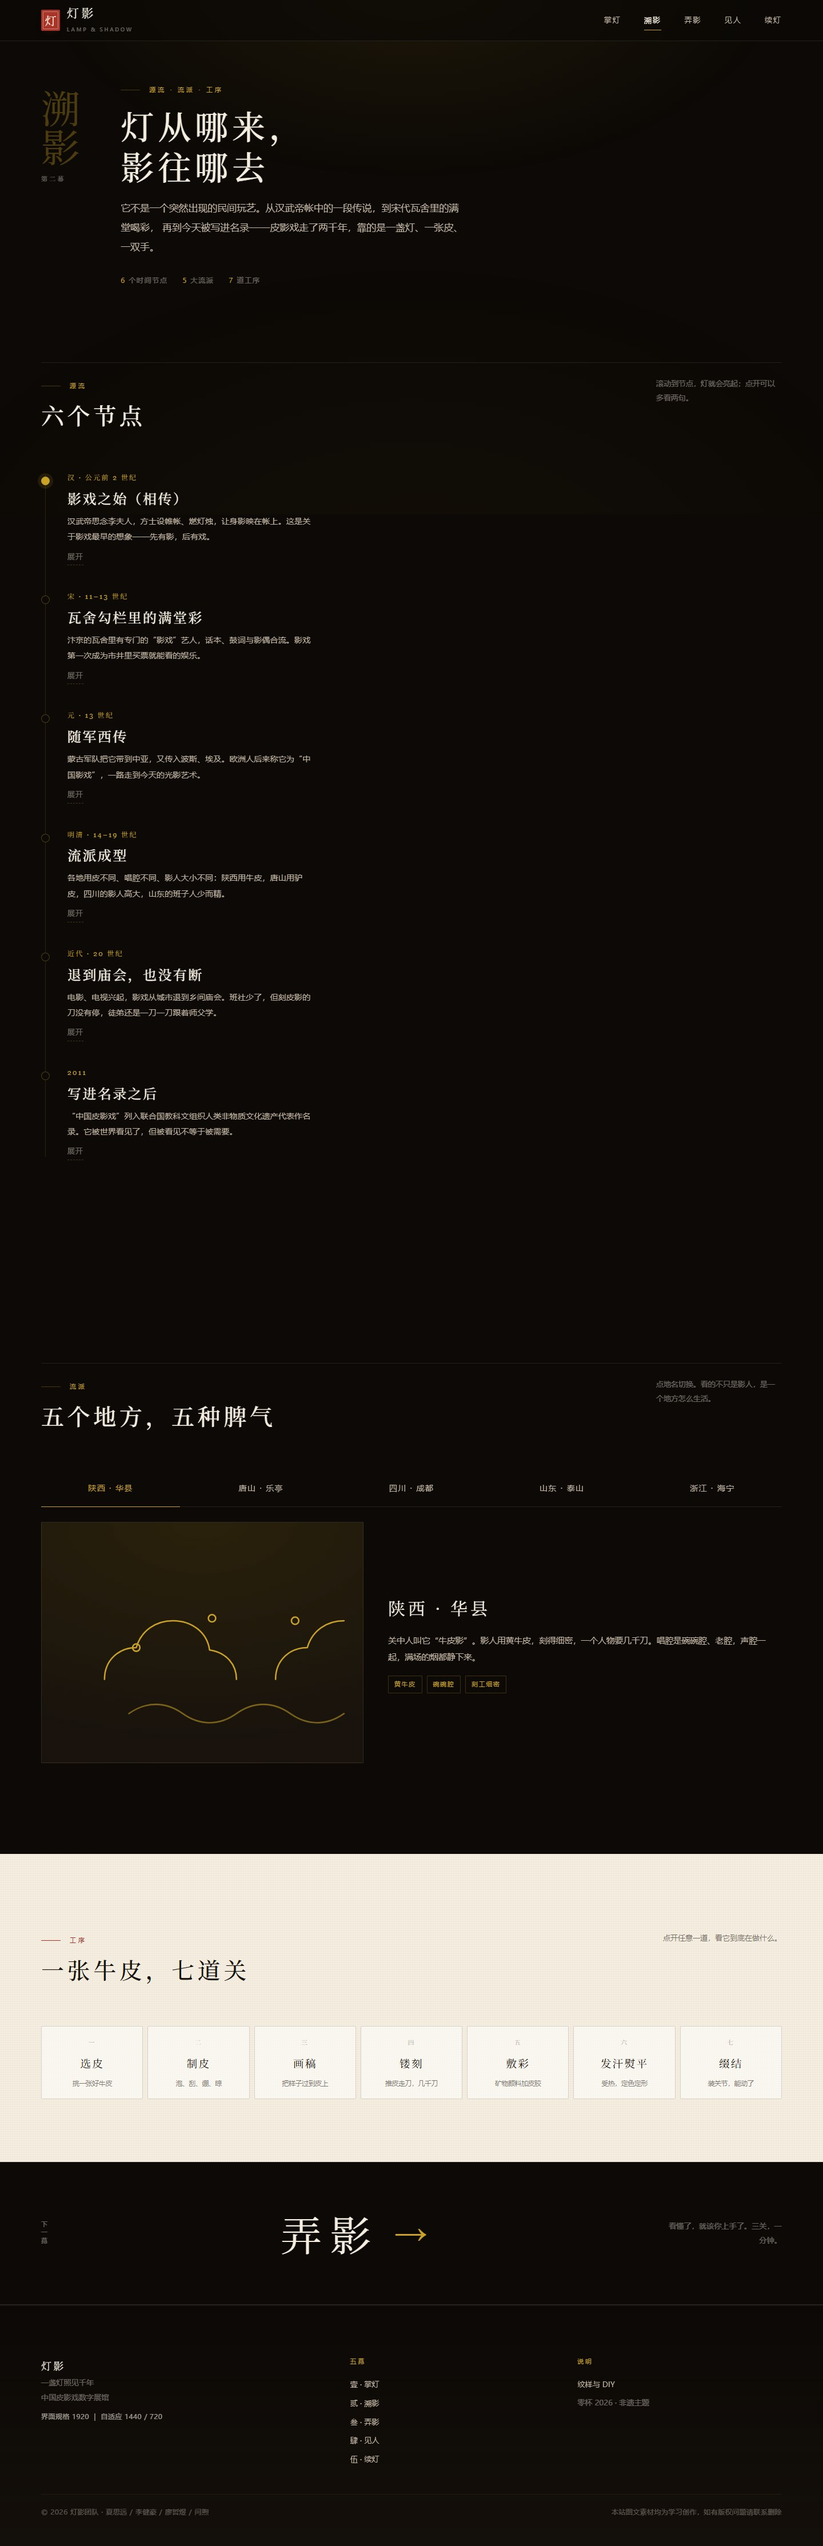
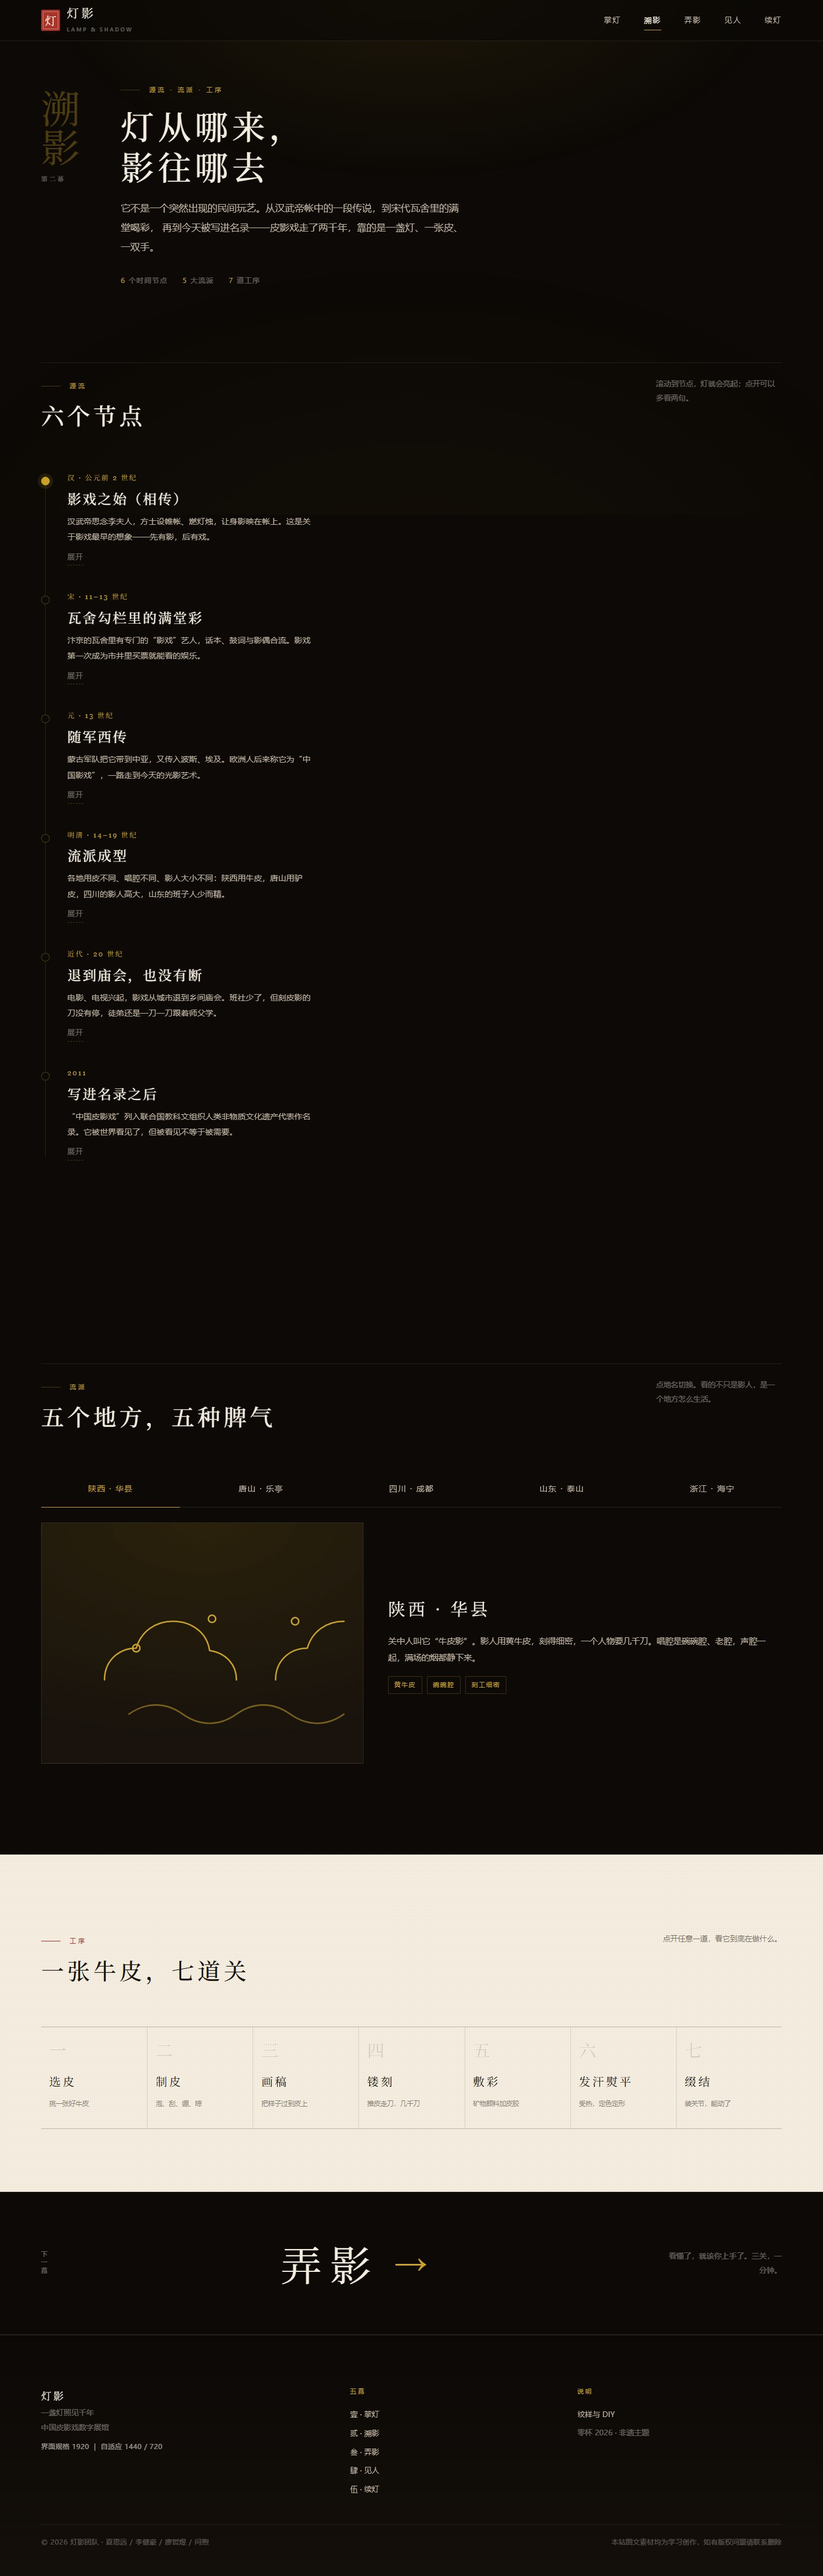
style: 组件层重构——工序表、工具墙、传承人卡
- 七道工序：7 张白卡改为刻本式表格，竖线分隔 + 大号汉字序号 + 悬停朱色
- 工具墙：卡框改为顶部发丝线 + 左对齐实物陈列，说明文字常显（不再藏到 hover）
- 传承人卡：圆形头像改档案照式方形证件框，加右下角标；姓名放大至 30px
- 回归：30 组审计 0 报错 0 溢出

diff --git a/web/assets/css/components.css b/web/assets/css/components.css
@@ -245,23 +245,59 @@
 }
 
 /* ---------- 工序 ---------- */
-.crafts { display: grid; grid-template-columns: repeat(7, minmax(0, 1fr)); gap: 8px; }
+/* ---------- 七道工序：刻本式表格，靠竖线分隔而不是卡片 ---------- */
+.crafts {
+  display: grid;
+  grid-template-columns: repeat(7, minmax(0, 1fr));
+  gap: 0;
+  border-top: 1px solid rgba(26, 20, 14, .26);
+  border-bottom: 1px solid rgba(26, 20, 14, .26);
+}
 .craft {
   position: relative;
-  padding: 18px 10px 16px;
-  border: 1px solid rgba(26, 20, 14, .16);
-  background: rgba(255, 255, 255, .5);
-  border-radius: 2px;
-  text-align: center;
-  transition: transform .3s var(--ease), background .3s var(--ease), box-shadow .3s var(--ease);
+  padding: 24px 14px 32px;
+  border: 0;
+  border-left: 1px solid rgba(26, 20, 14, .13);
+  border-radius: 0;
+  background: none;
+  text-align: left;
+  transition: background var(--t-base) var(--ease);
 }
-.craft:hover { transform: translateY(-4px); background: #FFFDF7; box-shadow: 0 18px 34px -22px rgba(26, 20, 14, .55); }
-.craft__idx { display: block; font-family: var(--num); font-size: 11px; letter-spacing: .2em; color: rgba(26, 20, 14, .45); }
-.craft__name { display: block; font-family: var(--serif); font-size: clamp(16px, 1.3vw, 19px); letter-spacing: .12em; margin-top: 8px; color: var(--curtain); }
-.craft__line { display: block; font-size: 11.5px; line-height: 1.7; color: rgba(26, 20, 14, .58); margin-top: 8px; }
+.craft:first-child { border-left: 0; }
+.craft:hover { background: rgba(26, 20, 14, .05); }
+.craft__idx {
+  display: block;
+  font-family: var(--serif);
+  font-size: 30px;
+  line-height: 1;
+  letter-spacing: 0;
+  color: rgba(26, 20, 14, .16);
+  transition: color var(--t-base) var(--ease);
+}
+.craft:hover .craft__idx { color: rgba(168, 52, 42, .55); }
+.craft__name {
+  display: block;
+  font-family: var(--serif);
+  font-size: clamp(17px, 1.4vw, 21px);
+  letter-spacing: .18em;
+  margin-top: 22px;
+  color: var(--curtain);
+}
+.craft__line { display: block; font-size: 11.5px; line-height: 1.8; color: rgba(26, 20, 14, .55); margin-top: 10px; }
 .craft:focus-visible { outline-color: var(--cinnabar); }
-@media (max-width: 1100px) { .crafts { grid-template-columns: repeat(4, minmax(0, 1fr)); } }
-@media (max-width: 640px) { .crafts { grid-template-columns: repeat(2, minmax(0, 1fr)); } }
+@media (max-width: 1100px) {
+  .crafts { grid-template-columns: repeat(4, minmax(0, 1fr)); }
+  .craft:nth-child(4n+1) { border-left: 0; }
+  .craft { border-top: 1px solid rgba(26, 20, 14, .13); }
+  .craft:nth-child(-n+4) { border-top: 0; }
+}
+@media (max-width: 640px) {
+  .crafts { grid-template-columns: repeat(2, minmax(0, 1fr)); }
+  .craft:nth-child(4n+1) { border-left: 1px solid rgba(26, 20, 14, .13); }
+  .craft:nth-child(2n+1) { border-left: 0; }
+  .craft:nth-child(-n+4) { border-top: 1px solid rgba(26, 20, 14, .13); }
+  .craft:nth-child(-n+2) { border-top: 0; }
+}
 
 /* ---------- 弄影台 ---------- */
 .stage-wrap { position: relative; }
@@ -595,8 +631,8 @@
   inset: 0;
   border: 1px solid var(--hair);
   border-radius: var(--r-sm);
-  padding: clamp(22px, 2.6vw, 34px);
-  background: linear-gradient(180deg, rgba(26, 20, 14, .9), rgba(12, 9, 6, .94));
+  padding: clamp(26px, 3vw, 40px);
+  background: linear-gradient(165deg, rgba(26, 20, 14, .92), rgba(12, 9, 6, .96));
   backface-visibility: hidden;
   -webkit-backface-visibility: hidden;
   display: flex;
@@ -608,17 +644,28 @@
   background: linear-gradient(180deg, rgba(46, 107, 79, .16), rgba(12, 9, 6, .96));
 }
 .master__portrait {
-  width: 96px;
-  height: 96px;
-  border-radius: 50%;
+  width: 84px;
+  height: 84px;
+  border-radius: var(--r-sm);
   border: 1px solid var(--line-strong);
   display: grid;
   place-items: center;
-  margin-bottom: 20px;
-  background: radial-gradient(circle at 50% 35%, rgba(201, 162, 39, .22), rgba(12, 9, 6, .9));
+  margin-bottom: 26px;
+  background: rgba(201, 162, 39, .04);
   flex: none;
+  position: relative;
 }
-.master__name { display: block; font-family: var(--serif); font-size: clamp(22px, 2vw, 28px); letter-spacing: .14em; }
+.master__portrait::after {
+  content: "";
+  position: absolute;
+  right: -1px;
+  bottom: -1px;
+  width: 10px;
+  height: 10px;
+  border-right: 1px solid var(--lamp);
+  border-bottom: 1px solid var(--lamp);
+}
+.master__name { display: block; font-family: var(--serif); font-size: clamp(24px, 2.2vw, 30px); letter-spacing: .18em; }
 .master__role { display: block; font-size: 12px; letter-spacing: .16em; color: var(--lamp); margin-top: 6px; }
 .master__text { display: block; font-size: 13.5px; line-height: 1.95; color: var(--paper-dim); margin-top: 16px; }
 .master__hint { display: block; margin-top: auto; padding-top: 18px; font-size: 11px; letter-spacing: .16em; color: var(--paper-faint); }
@@ -626,31 +673,50 @@
 .master__sign { display: block; margin-top: 22px; font-size: 12px; color: var(--paper-faint); letter-spacing: .14em; }
 
 /* ---------- 工具墙 ---------- */
-.tools { display: grid; grid-template-columns: repeat(5, minmax(0, 1fr)); gap: 10px; }
+/* ---------- 工具墙：五件器物，靠顶部细线站成一排 ---------- */
+.tools {
+  display: grid;
+  grid-template-columns: repeat(5, minmax(0, 1fr));
+  gap: 0 clamp(16px, 2.4vw, 34px);
+  border-top: 1px solid var(--hair-strong);
+}
 @media (max-width: 1000px) { .tools { grid-template-columns: repeat(3, minmax(0, 1fr)); } }
 @media (max-width: 600px) { .tools { grid-template-columns: repeat(2, minmax(0, 1fr)); } }
 .tool {
   position: relative;
-  padding: 18px 14px 16px;
-  border: 1px solid var(--hair);
-  border-radius: 2px;
-  background: rgba(26, 20, 14, .45);
-  text-align: center;
-  transition: transform .3s var(--ease), border-color .3s var(--ease);
+  padding: 26px 0 28px;
+  border: 0;
+  border-radius: 0;
+  background: none;
+  text-align: left;
+  transition: color var(--t-base) var(--ease);
 }
-.tool:hover, .tool.is-open { transform: translateY(-4px); border-color: var(--line-strong); }
-.tool__icon { height: 54px; display: grid; place-items: center; color: var(--lamp); }
-.tool__name { font-family: var(--serif); font-size: 16px; letter-spacing: .12em; margin-top: 12px; }
+.tool::before {
+  content: "";
+  position: absolute;
+  top: -1px;
+  left: 0;
+  right: 0;
+  height: 1px;
+  background: var(--lamp);
+  transform: scaleX(0);
+  transform-origin: left;
+  transition: transform var(--t-slow) var(--ease);
+}
+.tool:hover::before, .tool.is-open::before, .tool:focus-visible::before { transform: scaleX(1); }
+.tool__icon { height: 46px; display: flex; align-items: center; color: var(--lamp); }
+.tool__name { font-family: var(--serif); font-size: 16px; letter-spacing: .18em; margin-top: 18px; }
 .tool__note {
   font-size: 11.5px;
-  line-height: 1.7;
-  color: var(--paper-faint);
-  margin-top: 8px;
-  opacity: 0;
-  transform: translateY(4px);
-  transition: opacity .2s var(--ease), transform .2s var(--ease);
-  min-height: 3.2em;
+  line-height: 1.85;
+  color: rgba(244, 237, 224, .30);
+  margin-top: 10px;
+  transition: color var(--t-base) var(--ease);
+  min-height: 3.4em;
 }
+.tool:hover .tool__note,
+.tool.is-open .tool__note,
+.tool:focus-visible .tool__note { color: var(--paper-dim); }
 .tool:hover .tool__note, .tool.is-open .tool__note { opacity: 1; transform: none; }
 @media (hover: none) { .tool__note { opacity: 1; transform: none; } }
 

diff --git a/README.md b/README.md
@@ -206,6 +206,7 @@ node tools/anonymize.mjs web dist/匿名版
 | 2026-10-20 | 队名定为「灯下黑」，组别壹组，队长闫煦；README、提交规范与分工文档同步 |
 | 2026-10-20 | M1：抽出 `tokens.css` 设计变量层、清空全部 16 处内联样式；重绘皮影本体（冠 / 靠子 / 护心镜 / 甲片 / 靴 + 眼口镂空），加三根操纵签并随手联动 |
 | 2026-10-20 | M1+：全站视觉重构 v2「宋刻暗金」——更深的墨与更哑的旧金、字阶与间距重排、入口/流派/印章去色块改细线、按钮与标签去圆角 |
+| 2026-10-20 | M1++：组件层重构——七道工序改刻本式表格、工具墙改实物陈列排（说明常显）、传承人卡改档案照式证件框 |
 
 ---
 
